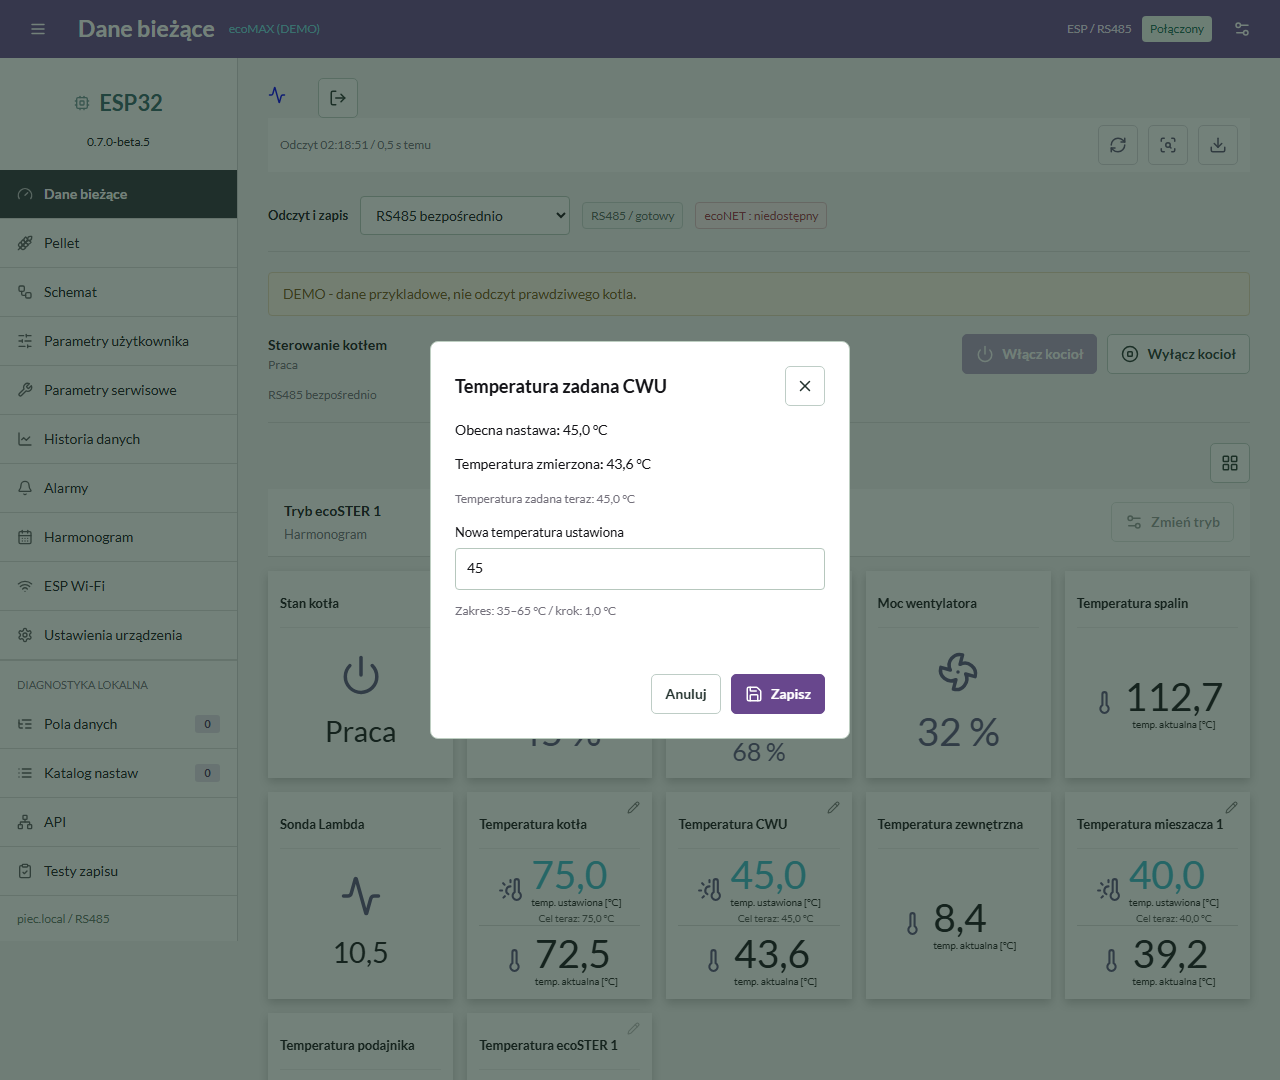
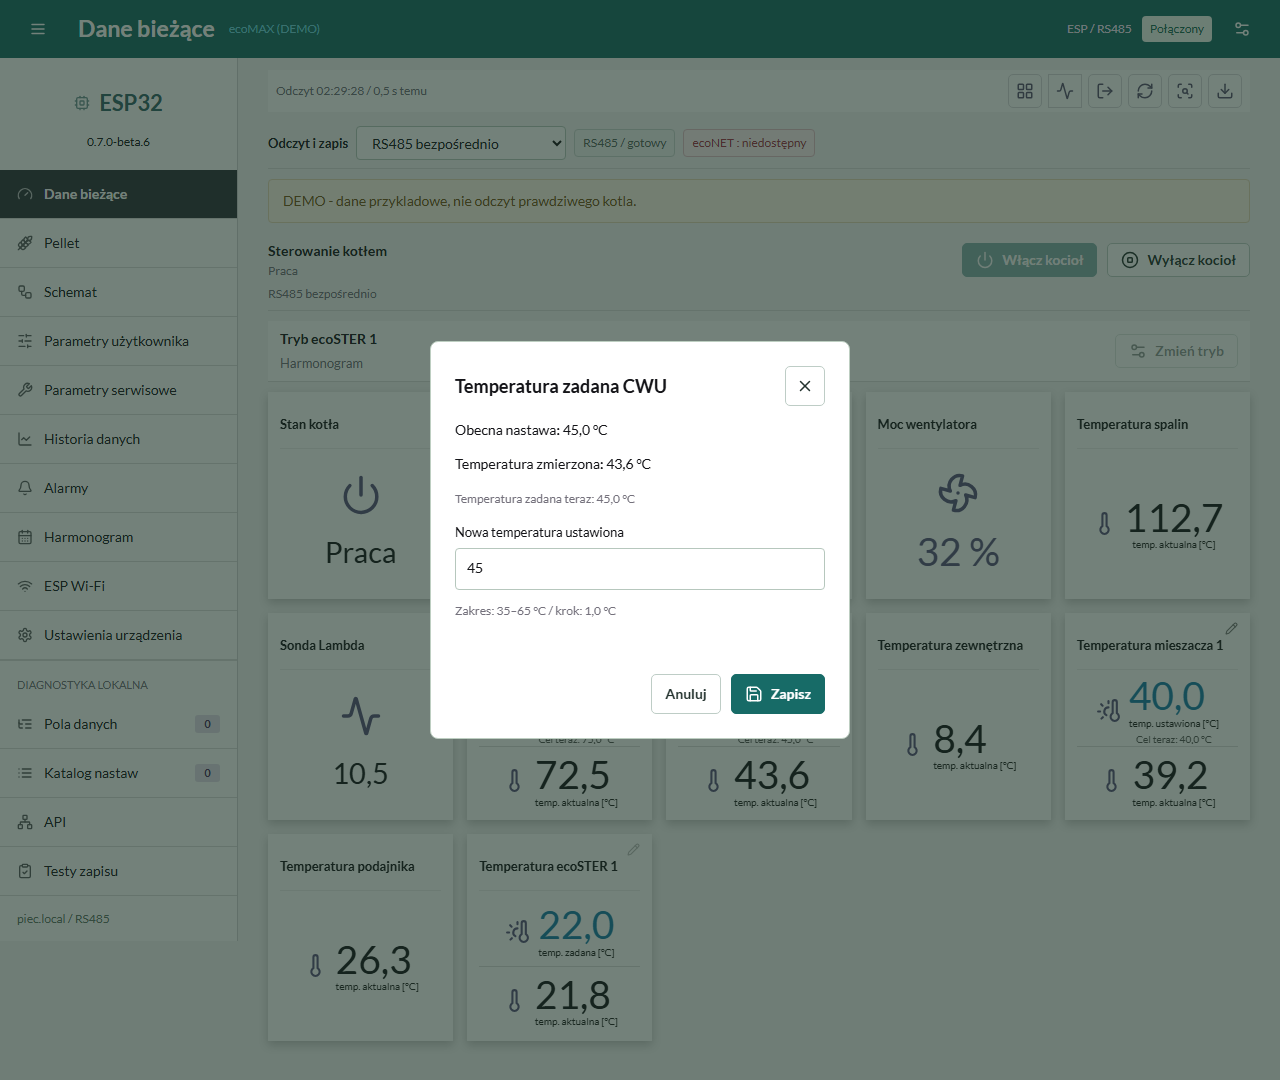
Release 0.7.0-beta.6: green compact panel and centered pellet level

diff --git a/src/panel_web/index.html b/src/panel_web/index.html
@@ -1,19 +1,19 @@
 <!doctype html>
 <html lang="pl"><head><meta charset="utf-8"><meta name="viewport" content="width=device-width,initial-scale=1"><title>ecoMAX Wi-Fi | Panel ESP</title><link rel="stylesheet" href="/style.css"><link rel="stylesheet" href="/mirror.css"><link rel="stylesheet" href="/week.css"><link rel="stylesheet" href="/pellet.css"><link rel="stylesheet" href="/history.css"><link rel="stylesheet" href="/network.css"><link rel="stylesheet" href="/updates.css"><script src="/updates.js" defer></script><script src="/network.js" defer></script><script src="/lucide.js" defer></script><script src="/settings.js" defer></script><script src="/pellet.js" defer></script><script src="/history.js" defer></script><script src="/sortable.min.js" defer></script><script src="/tile_layout.js" defer></script><script src="/mirror.js" defer></script><script src="/app.js" defer></script></head>
 <body>
-<link rel="stylesheet" href="/transport.css">
+<link rel="stylesheet" href="/transport.css"><link rel="stylesheet" href="/compact.css">
 <header><button id="nav-toggle" class="icon" title="Menu" aria-label="Menu" aria-expanded="true" aria-controls="main-nav"><i data-lucide="menu"></i></button><div class="brand"><h1 id="screen-name">Dane bie&#380;&#261;ce</h1><span id="model">Sterownik</span></div><div class="connection"><span id="local-mark" class="local-mark">ESP / RS485</span><span id="connection" class="status neutral">Niepo&#322;&#261;czony</span><button id="connect-open" class="icon" title="Po&#322;&#261;czenie" aria-label="Po&#322;&#261;czenie"><i data-lucide="settings-2"></i></button></div></header>
-<div class="layout"><nav id="main-nav" aria-label="Widoki"><div class="nav-brand"><div id="nav-econet" class="esp-brand" aria-label="ecoNET"><i data-lucide="router"></i><strong>ecoNET</strong></div><div id="nav-esp" class="esp-brand" hidden aria-label="ESP32"><i data-lucide="cpu"></i><strong>ESP32</strong></div><span id="version">0.7.0-beta.5</span></div>
+<div class="layout"><nav id="main-nav" aria-label="Widoki"><div class="nav-brand"><div id="nav-econet" class="esp-brand" aria-label="ecoNET"><i data-lucide="router"></i><strong>ecoNET</strong></div><div id="nav-esp" class="esp-brand" hidden aria-label="ESP32"><i data-lucide="cpu"></i><strong>ESP32</strong></div><span id="version">0.7.0-beta.6</span></div>
 <button class="active" data-view="live"><i data-lucide="gauge"></i><span>Dane bie&#380;&#261;ce</span></button><button data-view="pellet"><i data-lucide="wheat"></i><span>Pellet</span></button><button data-view="schema"><i data-lucide="workflow"></i><span>Schemat</span></button><button data-view="user"><i data-lucide="sliders-horizontal"></i><span>Parametry u&#380;ytkownika</span></button><button data-view="service"><i data-lucide="wrench"></i><span>Parametry serwisowe</span></button><button data-view="history"><i data-lucide="chart-line"></i><span>Historia danych</span></button><button data-view="alarms"><i data-lucide="bell"></i><span>Alarmy</span></button><button data-view="schedule"><i data-lucide="calendar-days"></i><span>Harmonogram</span></button><button data-view="espwifi"><i data-lucide="wifi"></i><span>ESP Wi-Fi</span></button><button data-view="settings"><i data-lucide="settings"></i><span>Ustawienia urz&#261;dzenia</span></button><div class="nav-tools">Diagnostyka lokalna</div><button data-view="data"><i data-lucide="list-tree"></i><span>Pola danych</span><b id="count-fields">0</b></button><button data-view="menu"><i data-lucide="list"></i><span>Katalog nastaw</span><b id="count-menu">0</b></button><button data-view="api"><i data-lucide="network"></i><span>API</span></button><button data-view="tests"><i data-lucide="clipboard-check"></i><span>Testy zapisu</span></button><div class="rail-foot"><div id="address">piec.local</div></div></nav>
 <main>
-<div class="actions"><a href="/diagnostics" class="icon" title="Diagnostyka ESP i OTA" aria-label="Diagnostyka ESP i OTA"><i data-lucide="activity"></i></a><button id="esp-logout" class="icon" title="Wyloguj" aria-label="Wyloguj"><i data-lucide="log-out"></i></button></div>
-<div class="page-toolbar"><div><h2 id="view-title">Bie&#380;&#261;ce odczyty</h2><div id="read-time" class="muted">Brak odczytu</div></div><div class="actions"><button class="icon" id="refresh" title="Od&#347;wie&#380; odczyty" aria-label="Od&#347;wie&#380; odczyty"><i data-lucide="refresh-cw"></i></button><button class="icon" id="scan" title="Sprawd&#378; API i katalog" aria-label="Sprawd&#378; API i katalog"><i data-lucide="scan-search"></i></button><button class="icon" id="export" title="Eksport raportu JSON" aria-label="Eksport raportu JSON"><i data-lucide="download"></i></button></div></div>
+
+<div class="page-toolbar"><div><h2 id="view-title">Bie&#380;&#261;ce odczyty</h2><div id="read-time" class="muted">Brak odczytu</div></div><div class="actions"><div class="tile-layout-actions"><span id="tile-layout-status" class="tile-layout-status visually-hidden" role="status"></span><button id="tile-layout-edit" type="button" class="icon" title="Edytuj uk&#322;ad" aria-label="Edytuj uk&#322;ad" aria-pressed="false"><i data-lucide="layout-grid"></i></button><button id="tile-layout-reset" type="button" class="icon" title="Przywr&#243;&#263; domy&#347;lny uk&#322;ad" aria-label="Przywr&#243;&#263; domy&#347;lny uk&#322;ad" hidden><i data-lucide="rotate-ccw"></i></button></div><a href="/diagnostics" class="icon" title="Diagnostyka ESP i OTA" aria-label="Diagnostyka ESP i OTA"><i data-lucide="activity"></i></a><button id="esp-logout" class="icon" title="Wyloguj" aria-label="Wyloguj"><i data-lucide="log-out"></i></button><button class="icon" id="refresh" title="Od&#347;wie&#380; odczyty" aria-label="Od&#347;wie&#380; odczyty"><i data-lucide="refresh-cw"></i></button><button class="icon" id="scan" title="Sprawd&#378; API i katalog" aria-label="Sprawd&#378; API i katalog"><i data-lucide="scan-search"></i></button><button class="icon" id="export" title="Eksport raportu JSON" aria-label="Eksport raportu JSON"><i data-lucide="download"></i></button></div></div>
 <div class="transport-toolbar"><label for="transport-select">Odczyt i zapis</label><select id="transport-select"><option value="rs485">RS485 bezpo&#347;rednio</option><option value="econet">ecoNET lokalnie</option><option value="hybrid">RS485 + ecoNET</option></select><span id="transport-state" class="status neutral"></span><span id="econet-health" class="status neutral" role="status">ecoNET: sprawdzanie</span></div>
 <div id="notice" role="status" hidden></div><div id="progress" hidden><span id="progress-label"></span><progress id="progress-value"></progress></div>
 <div id="update-notice" class="update-notice" role="status" hidden><span>Dost&#281;pna wersja <strong id="update-notice-version"></strong></span><button id="update-open" type="button"><i data-lucide="download"></i>Aktualizacja</button></div>
 <section data-section="live">
 <div class="boiler-controls"><div><strong>Sterowanie kot&#322;em</strong><div id="control-mode" class="muted">Brak odczytu</div></div><div class="actions"><button type="button" id="boiler-start" class="primary"><i data-lucide="power"></i>W&#322;&#261;cz kocio&#322;</button><button type="button" id="boiler-stop"><i data-lucide="circle-stop"></i>Wy&#322;&#261;cz kocio&#322;</button></div><div id="control-access" class="muted" role="status"></div></div>
-<div class="tile-layout-toolbar"><span id="tile-layout-status" class="tile-layout-status" role="status"></span><button id="tile-layout-edit" type="button" class="icon" title="Edytuj uk&#322;ad" aria-label="Edytuj uk&#322;ad" aria-pressed="false"><i data-lucide="layout-grid"></i></button><button id="tile-layout-reset" type="button" class="icon" title="Przywr&#243;&#263; domy&#347;lny uk&#322;ad" aria-label="Przywr&#243;&#263; domy&#347;lny uk&#322;ad" hidden><i data-lucide="rotate-ccw"></i></button></div>
+
 <div id="mirror-tiles" class="tiles-grid"></div>
 <div hidden>
 <dl id="measurements" class="measurements"><div><dt>Kocio&#322;</dt><dd id="temp-co">-</dd><small id="target-co">Zadana: -</small></div><div><dt>CWU</dt><dd id="temp-cwu">-</dd><small id="target-cwu">Zadana: -</small></div><div><dt>Pomieszczenie</dt><dd id="temp-room">-</dd><small id="target-room">Zadana: -</small></div><div><dt>Na zewn&#261;trz</dt><dd id="temp-outside">-</dd><small>Czujnik pogodowy</small></div><div><dt>Spaliny</dt><dd id="temp-exhaust">-</dd><small id="state-mode">Stan kot&#322;a: -</small></div><div><dt>Mieszacz 1</dt><dd id="temp-mixer">-</dd><small id="target-mixer">Zadana: -</small></div></dl>

diff --git a/src/panel_web/mirror.css b/src/panel_web/mirror.css
@@ -2,7 +2,7 @@
 @font-face{font-family:LatoLocal;font-style:normal;font-weight:400;src:url('/assets/lato-latin-ext-400-normal.woff2') format('woff2');font-display:swap;unicode-range:U+0100-02BA,U+02BD-02C5,U+02C7-02CC,U+02CE-02D7,U+02DD-02FF,U+0304,U+0308,U+0329,U+1D00-1DBF,U+1E00-1E9F,U+1EF2-1EFF,U+2020,U+20A0-20AB,U+20AD-20C0,U+2113,U+2C60-2C7F,U+A720-A7FF}
 @font-face{font-family:LatoLocal;font-style:normal;font-weight:700;src:url('/assets/lato-latin-700-normal.woff2') format('woff2');font-display:swap}
 @font-face{font-family:LatoLocal;font-style:normal;font-weight:700;src:url('/assets/lato-latin-ext-700-normal.woff2') format('woff2');font-display:swap;unicode-range:U+0100-02FF,U+1E00-1EFF}
-:root{font-family:LatoLocal,"Segoe UI",sans-serif;color:#151519;background:#f4f4f4;--plum:#68478d;--ink:#2f323b;--cyan:#3cbbce}
+:root{font-family:LatoLocal,"Segoe UI",sans-serif;color:#151519;background:#f4f4f4;--plum:#176b67;--ink:#2f323b;--cyan:#187eaa}
 .installation-grid{display:grid;grid-template-columns:repeat(2,minmax(0,1fr));gap:24px}
 .installation-node{min-width:0;border-top:2px solid #176b67;padding:14px 0}
 .installation-node h3{display:flex;align-items:center;gap:10px;font-size:16px;margin:0 0 12px}
@@ -20,7 +20,7 @@ header .icon{color:#fff;background:transparent;border:0}header .brand{flex:1;gap
 #main-nav button{border-bottom:1px solid #ddd;border-radius:0;min-height:49px;padding:12px 17px;font-size:14px;color:#17171d}#main-nav button.active{background:var(--ink);color:#fff}#main-nav button:hover{background:#e3ddea}#main-nav button.active:hover{background:var(--ink)}#main-nav svg{width:16px;height:16px;opacity:.7}#main-nav b{background:#e3ddea;color:#46305b}
 .nav-tools{font-size:11px;text-transform:uppercase;color:#73717a;padding:16px 17px 7px;border-top:1px solid #ddd}.rail-foot{margin:0;padding:14px 17px}
 body.nav-closed .layout{grid-template-columns:0 minmax(0,1fr)}body.nav-closed #main-nav{visibility:hidden;overflow:hidden}
-main{padding:20px 30px 0}.page-toolbar{margin-bottom:18px;min-height:38px}.page-toolbar h2{display:none}.page-toolbar .muted{margin:0}.page-toolbar .icon{background:white;border:1px solid #dad8dd;color:#5a5270}.muted{color:#74717c}.primary{background:var(--plum);border-color:var(--plum)}.primary:hover{background:#52346f}button:focus-visible,input:focus-visible,select:focus-visible{outline-color:var(--cyan)}input[type=checkbox]{accent-color:var(--plum)}
+main{padding:20px 30px 0}.page-toolbar{margin-bottom:18px;min-height:38px}.page-toolbar h2{display:none}.page-toolbar .muted{margin:0}.page-toolbar .icon{background:white;border:1px solid #dad8dd;color:#5a5270}.muted{color:#74717c}.primary{background:var(--plum);border-color:var(--plum)}.primary:hover{background:#125450}button:focus-visible,input:focus-visible,select:focus-visible{outline-color:var(--cyan)}input[type=checkbox]{accent-color:var(--plum)}
 body[data-view=live] main{background:#f4f4f4;min-height:calc(100vh - 58px)}body[data-view=live] .page-toolbar{background:#ffffffea;padding:7px 12px;margin-bottom:14px;border-radius:0}
 .tiles-grid{display:grid;grid-template-columns:repeat(auto-fit,minmax(163px,1fr));gap:14px;max-width:1350px;margin:0 auto 30px}.eco-tile{position:relative;background:#fff;box-shadow:0 4px 9px #0003;border-radius:0;height:207px;min-width:0;display:flex;flex-direction:column;padding:17px 12px 0}.eco-tile .tile-action{position:absolute;right:6px;top:4px;border:0;min-height:24px;width:25px;background:transparent;color:#777;padding:0;z-index:1}.tile-action svg{width:13px;height:13px}
 .tile-body{display:flex;flex:1;flex-direction:column;justify-content:center;min-height:0}.tile-reading{display:flex;align-items:center;gap:8px;min-height:69px;justify-content:center}.tile-reading+.tile-reading{border-top:1px solid #ddd}.tile-reading .tile-symbol{width:25px;height:35px;color:#176b67;flex:none;margin:0}.tile-reading .tile-symbol svg{width:100%;height:100%}.tile-reading .tile-value{font-size:39px;line-height:1.1;white-space:nowrap;font-variant-numeric:tabular-nums}.tile-reading sup{font-size:12px;vertical-align:top;line-height:1.8}.tile-reading small{display:block;text-align:center;font-size:10px;color:#222;line-height:1.3;white-space:normal}.tile-reading.set .tile-value{color:var(--cyan)}.tile-mode{font-size:29px;text-align:center;overflow-wrap:anywhere}.eco-tile h3{border-top:1px solid #ddd;font-size:13px;font-weight:650;line-height:17px;min-height:53px;display:flex;align-items:center;margin:0;padding:7px 0;overflow-wrap:anywhere}.tiles-grid.stale .tile-value{color:#888}

diff --git a/src/panel_web/pellet.css b/src/panel_web/pellet.css
@@ -1,3 +1,4 @@
 .pellet-level-view{display:flex;align-items:center;gap:32px;padding:24px 0;border-bottom:1px solid #dbe3de;flex-wrap:wrap}.pellet-level-view h3{font-size:16px;margin:0 0 10px}.pellet-level-view strong{display:block;font-size:32px;min-height:42px;font-variant-numeric:tabular-nums}.pellet-level-view p{font-size:13px;color:#666;max-width:300px}.pellet-gauge{position:relative;width:68px;height:80px;flex:none;overflow:hidden;background:#e8ebed;border:3px solid #717b82;border-radius:3px 3px 18px 18px;box-shadow:inset 0 0 0 3px #fff}.pellet-gauge:before{content:"";position:absolute;inset:5px;background:repeating-linear-gradient(0deg,transparent 0 19px,#c6cdd2 19px 20px)}.pellet-fill{position:absolute;bottom:0;left:0;right:0;height:var(--pellet-level,0%);background:#c8994e;box-shadow:inset 0 3px #e6c383;transition:height .25s}.pellet-fill:after{content:"";position:absolute;inset:4px;background:repeating-linear-gradient(30deg,transparent 0 9px,#a37535 9px 12px,transparent 12px 20px);opacity:.55}.pellet-gauge[data-available=false] .pellet-fill{display:none}.pellet-gauge[data-available=false]:after{content:"?";position:absolute;inset:0;display:grid;place-items:center;font-size:28px;color:#778189}#pellet-hopper{width:130px;height:150px}.eco-tile[data-member=fuelLevel] .tile-body{gap:16px}.eco-tile[data-member=fuelLevel] .tile-value{font-size:25px;overflow-wrap:anywhere}.eco-tile[data-member=fuelLevel][data-stale=true] .tile-value{font-size:15px}[data-section=pellet] h3{overflow-wrap:anywhere}
+.eco-tile[data-member=fuelLevel] .pellet-gauge{align-self:center;margin:0}
 .eco-tile[data-member=fuelLevel][data-level-available=false] .tile-value{font-size:15px}
 .tile-layout-toolbar{display:flex;align-items:center;justify-content:flex-end;gap:8px;min-height:40px;margin:6px 0}.tile-layout-toolbar [aria-pressed=true]{background:var(--plum);color:white}.tile-layout-status{font-size:12px;color:#57535d;flex:1}.eco-tile .tile-grip{position:absolute;right:4px;top:4px;z-index:2;width:28px;height:28px;cursor:grab;touch-action:none;background:#fff}.editing-layout .tile-action{visibility:hidden}.editing-layout .tile-title{padding-right:30px}.editing-layout .eco-tile{outline:1px dashed #887397}.tile-ghost{opacity:.35}.editing-layout .tile-grip:active{cursor:grabbing}

diff --git a/docs/GALERIA.html b/docs/GALERIA.html
@@ -6,7 +6,7 @@
 <style>
 *{box-sizing:border-box}body{margin:0;background:#fff;color:#243138;font:16px/1.65 system-ui,"Segoe UI",Arial,sans-serif;letter-spacing:0}header{border-bottom:1px solid #d7e1e3;padding:16px 24px}header nav{max-width:960px;margin:auto;display:flex;flex-wrap:wrap;gap:20px}main{max-width:960px;margin:auto;padding:24px}h1{font-size:30px;line-height:1.25}h2{font-size:23px;line-height:1.35;margin-top:40px;padding-top:18px;border-top:1px solid #dce6e7}p,li{overflow-wrap:anywhere}a{color:#176a85}img{display:block;max-width:100%;height:auto;margin:22px auto;border:1px solid #d8e1e3;border-radius:4px}table{width:100%;border-collapse:collapse;margin:20px 0;font-size:14px}th,td{border:1px solid #ccd9dc;padding:10px;text-align:left;vertical-align:top;overflow-wrap:anywhere}th{background:#eef6f4}pre{white-space:pre-wrap;overflow-wrap:anywhere}em{font-size:14px;color:#546970}strong{font-weight:700}@media(max-width:600px){main{padding:18px}header{padding:16px 18px}h1{font-size:26px}h2{font-size:21px}th,td{padding:7px;font-size:13px}}@media print{header{display:none}main{max-width:none;padding:0}h2{break-after:avoid}img{max-height:18cm;object-fit:contain}tr{break-inside:avoid}a{color:inherit}body{font-size:11pt}}
 </style></head><body><header><nav><a href="https://marexcodemaster.github.io/ecomax-esp32-gateway/">Instalator USB</a><a href="https://github.com/MareXcodemaster/ecomax-esp32-gateway/releases">Pliki do pobrania</a></nav></header><main><h1>Jak Wyglada Panel ecoMAX Wi-Fi</h1>
-<p>Zrzuty rzeczywistego interfejsu wersji <strong>0.7.0-beta.5</strong>, uruchomionego
+<p>Zrzuty rzeczywistego interfejsu wersji <strong>0.7.0-beta.6</strong>, uruchomionego
 lokalnie z <strong>danymi przykladowymi (DEMO)</strong>. Nie jest to potwierdzenie
 obslugi kazdej nastawy w dowolnym kotle.
 Kliknij zdjecie, aby je powiekszyc w GitHubie.</p>

diff --git a/docs/SZYBKI_START.html b/docs/SZYBKI_START.html
@@ -6,7 +6,7 @@
 <style>
 *{box-sizing:border-box}body{margin:0;background:#fff;color:#243138;font:16px/1.65 system-ui,"Segoe UI",Arial,sans-serif;letter-spacing:0}header{border-bottom:1px solid #d7e1e3;padding:16px 24px}header nav{max-width:960px;margin:auto;display:flex;flex-wrap:wrap;gap:20px}main{max-width:960px;margin:auto;padding:24px}h1{font-size:30px;line-height:1.25}h2{font-size:23px;line-height:1.35;margin-top:40px;padding-top:18px;border-top:1px solid #dce6e7}p,li{overflow-wrap:anywhere}a{color:#176a85}img{display:block;max-width:100%;height:auto;margin:22px auto;border:1px solid #d8e1e3;border-radius:4px}table{width:100%;border-collapse:collapse;margin:20px 0;font-size:14px}th,td{border:1px solid #ccd9dc;padding:10px;text-align:left;vertical-align:top;overflow-wrap:anywhere}th{background:#eef6f4}pre{white-space:pre-wrap;overflow-wrap:anywhere}em{font-size:14px;color:#546970}strong{font-weight:700}@media(max-width:600px){main{padding:18px}header{padding:16px 18px}h1{font-size:26px}h2{font-size:21px}th,td{padding:7px;font-size:13px}}@media print{header{display:none}main{max-width:none;padding:0}h2{break-after:avoid}img{max-height:18cm;object-fit:contain}tr{break-inside:avoid}a{color:inherit}body{font-size:11pt}}
 </style></head><body><header><nav><a href="https://marexcodemaster.github.io/ecomax-esp32-gateway/">Instalator USB</a><a href="https://github.com/MareXcodemaster/ecomax-esp32-gateway/releases">Pliki do pobrania</a></nav></header><main><h1>ecoMAX Wi-Fi: Prosta Instrukcja Instalacji</h1>
-<p><strong>Wersja programu 0.7.0-beta.5. Instrukcja 4, 17.10.2026.</strong>
+<p><strong>Wersja programu 0.7.0-beta.6. Instrukcja 4, 17.10.2026.</strong>
 Nie musisz programowac ani wpisywac komend. Komputer jest potrzebny
 tylko przy pierwszym wgraniu; pozniej korzystasz z telefonu.</p>
 <h2>1. Sprawdz, Czy To Zestaw Dla Ciebie</h2>

diff --git a/src/panel_web/compact.css b/src/panel_web/compact.css
@@ -1,0 +1,2 @@
+main{padding-top:12px}.page-toolbar,body[data-view=live] .page-toolbar{min-height:40px;margin-bottom:8px;padding:4px 8px;gap:8px;align-items:center;flex-wrap:wrap}.page-toolbar>.actions{gap:6px;flex-wrap:wrap}.page-toolbar .icon{width:34px;min-height:34px}.page-toolbar a.icon{height:34px;display:inline-flex;align-items:center;justify-content:center}.tile-layout-actions{display:flex;align-items:center;gap:6px}.tile-layout-actions[aria-pressed=true],#tile-layout-edit[aria-pressed=true]{background:var(--plum);color:white}body:not([data-view=live]) .tile-layout-actions{display:none}.visually-hidden{position:absolute!important;width:1px;height:1px;padding:0;margin:-1px;overflow:hidden;clip-path:inset(50%);white-space:nowrap;border:0}.transport-toolbar{padding:6px 0 8px;margin-bottom:10px;gap:8px}.transport-toolbar select{min-height:34px;padding-top:5px;padding-bottom:5px}.boiler-controls{padding-bottom:8px;margin-bottom:10px;gap:6px 16px}.boiler-controls .muted{font-size:12px}.boiler-controls button{min-height:34px;padding-top:6px;padding-bottom:6px}.room-mode-controls{padding:8px 12px;margin-bottom:10px}.room-mode-controls button{min-height:34px;padding-top:6px;padding-bottom:6px}.update-notice{margin-bottom:10px;padding:5px 0;gap:8px;font-size:12px}.update-notice button{min-height:32px;padding:4px 9px;font-size:12px}
+@media(max-width:640px){.page-toolbar,body[data-view=live] .page-toolbar{padding:4px;gap:6px}.page-toolbar>.actions,.tile-layout-actions{gap:4px}.page-toolbar .icon{width:30px;min-height:32px}.page-toolbar a.icon{height:32px}.page-toolbar #read-time{font-size:10px}.transport-toolbar{gap:6px}.transport-toolbar label{width:auto;font-size:12px}.boiler-controls{gap:6px 12px}.boiler-controls>.actions{gap:6px}.room-mode-controls{padding:8px}.update-notice{gap:5px}.update-notice button{font-size:11px}}

diff --git a/docs/START_PL.html b/docs/START_PL.html
@@ -8,7 +8,7 @@
 </style></head><body><header><nav><a href="https://marexcodemaster.github.io/ecomax-esp32-gateway/">Instalator USB</a><a href="https://github.com/MareXcodemaster/ecomax-esp32-gateway/releases">Pliki do pobrania</a></nav></header><main><h1>ecoMAX Wi-Fi - sterowanie kotłem z telefonu</h1>
 <h2>Instrukcja krok po kroku</h2>
 <p><strong>Pierwszy raz z ESP? Zacznij od <a href="SZYBKI_START.html">prostej instrukcji w 7 krokach</a>.</strong></p>
-<p><strong>Oprogramowanie: 0.7.0-beta.5. Instrukcja: wydanie 5, 17.10.2026.</strong></p>
+<p><strong>Oprogramowanie: 0.7.0-beta.6. Instrukcja: wydanie 6, 17.10.2026.</strong></p>
 <p>Projekt pozwala obsługiwać zgodny regulator kotła z telefonu, tabletu lub
 komputera w domowej sieci. ESP32 odbiera dane i udostępnia własny panel.
 Komputer i kabel USB są potrzebne do pierwszego wgrania. Później panel

diff --git a/installer/index.html b/installer/index.html
@@ -9,7 +9,7 @@
   <script type="module" src="./main.js"></script>
 </head>
 <body>
-  <header><a class="brand" href="./"><i data-lucide="cpu"></i> ecoMAX Wi-Fi</a><span class="version">0.7.0-beta.5</span></header>
+  <header><a class="brand" href="./"><i data-lucide="cpu"></i> ecoMAX Wi-Fi</a><span class="version">0.7.0-beta.6</span></header>
   <main>
     <h1>Instalacja i Wi-Fi</h1>
     <p>Sterowanie kot&#322;em z telefonu. <a href="./szybki-start.html">Prosta instrukcja: 7 krokow</a> · <a href="./instrukcja.html">Pelna instrukcja ze zdjeciami</a> · <a href="./GALERIA.html">Zobacz panel</a></p>

diff --git a/src/board.hpp b/src/board.hpp
@@ -8,7 +8,7 @@ constexpr gpio_num_t tx = GPIO_NUM_17;
 constexpr gpio_num_t de = GPIO_NUM_21;
 constexpr uart_port_t uart = UART_NUM_1;
 constexpr unsigned baud = 115200;
-constexpr const char *version = "0.7.0-beta.5";
+constexpr const char *version = "0.7.0-beta.6";
 constexpr const char *hostname = "piec";
 constexpr bool github_ota = true;
 inline const char *password() { return device_access::password(); }

diff --git a/docs/POST_NA_GRUPE.md b/docs/POST_NA_GRUPE.md
@@ -1,4 +1,4 @@
-Czesc! Udostepniam moj projekt **ecoMAX Wi-Fi - sterowanie kotlem z telefonu**.
+Dostepny jest bezplatny, niezalezny projekt **ecoMAX Wi-Fi - sterowanie kotlem z telefonu**.
 To lokalny panel na ESP32, rozwijany jako alternatywa dla modulu ecoNET300,
 bez koniecznosci korzystania z chmury i bez stale wlaczonego komputera.
 
@@ -15,7 +15,7 @@ Aktualizacje sa dobrowolne.
 
 **To bezplatna BETA, nie oficjalny produkt PLUM.** Sprawdzony zestaw
 referencyjny to ecoMAX860P-LZ TOUCH / ecoMAX860P4-LZ z eSTER_x40.
-Nie gwarantuje dzialania wszystkich funkcji z kazdym kotlem; sprawdzcie
+Nie ma gwarancji dzialania wszystkich funkcji z kazdym kotlem; sprawdzcie
 liste zgodnosci. Podlaczenie wewnatrz kotla zleccie osobie z kwalifikacjami.
 
 Projekt, zdjecia i pobieranie:
@@ -24,4 +24,4 @@ https://github.com/MareXcodemaster/ecomax-esp32-gateway
 Prosta instrukcja i instalator:
 https://marexcodemaster.github.io/ecomax-esp32-gateway/szybki-start.html
 
-Chetnie poznam wyniki testow z innymi modelami regulatorow.
+Zgodnosc zalezy od modelu i wersji oprogramowania sterownika.

diff --git a/README.md b/README.md
@@ -7,7 +7,7 @@ Bez konta w chmurze do codziennej pracy. Interfejs i instrukcje po polsku.
 **[Prosta instalacja w 7 krokach](docs/SZYBKI_START.md)** ·
 **[Pobierz firmware i instrukcje](https://github.com/MareXcodemaster/ecomax-esp32-gateway/releases)**
 
-**Wersja 0.7.0-beta.5. Projekt niezalezny, nieoficjalny. Nie jest produktem
+**Wersja 0.7.0-beta.6. Projekt niezalezny, nieoficjalny. Nie jest produktem
 PLUM ani Waveshare. Nie jest uniwersalnym firmware dla wszystkich
 kotlow.** Nie omija zabezpieczen ani nie zastepuje regulatora kotla.
 

diff --git a/CHANGELOG.md b/CHANGELOG.md
@@ -1,5 +1,13 @@
 # Changelog
 
+## 0.7.0-beta.6 - 2026-10-17
+
+- Przywrocona zielona kolorystyka panelu zgodnie z wyborem uzytkownika.
+- Zasobnik pelletu wysrodkowany dokladnie nad procentem w kafelku.
+- Test geometrii kafelka na komputerze i telefonie.
+- Przycisk edycji ukladu w glownym pasku, mniej pustych wierszy nad kafelkami.
+- Pozostale funkcje wersji beta.5 bez zmian.
+
 ## 0.7.0-beta.5 - 2026-10-17
 
 - Zmienna kolejnosc kafelkow: mysz, dotyk i klawiatura, lokalny zapis ukladu.
